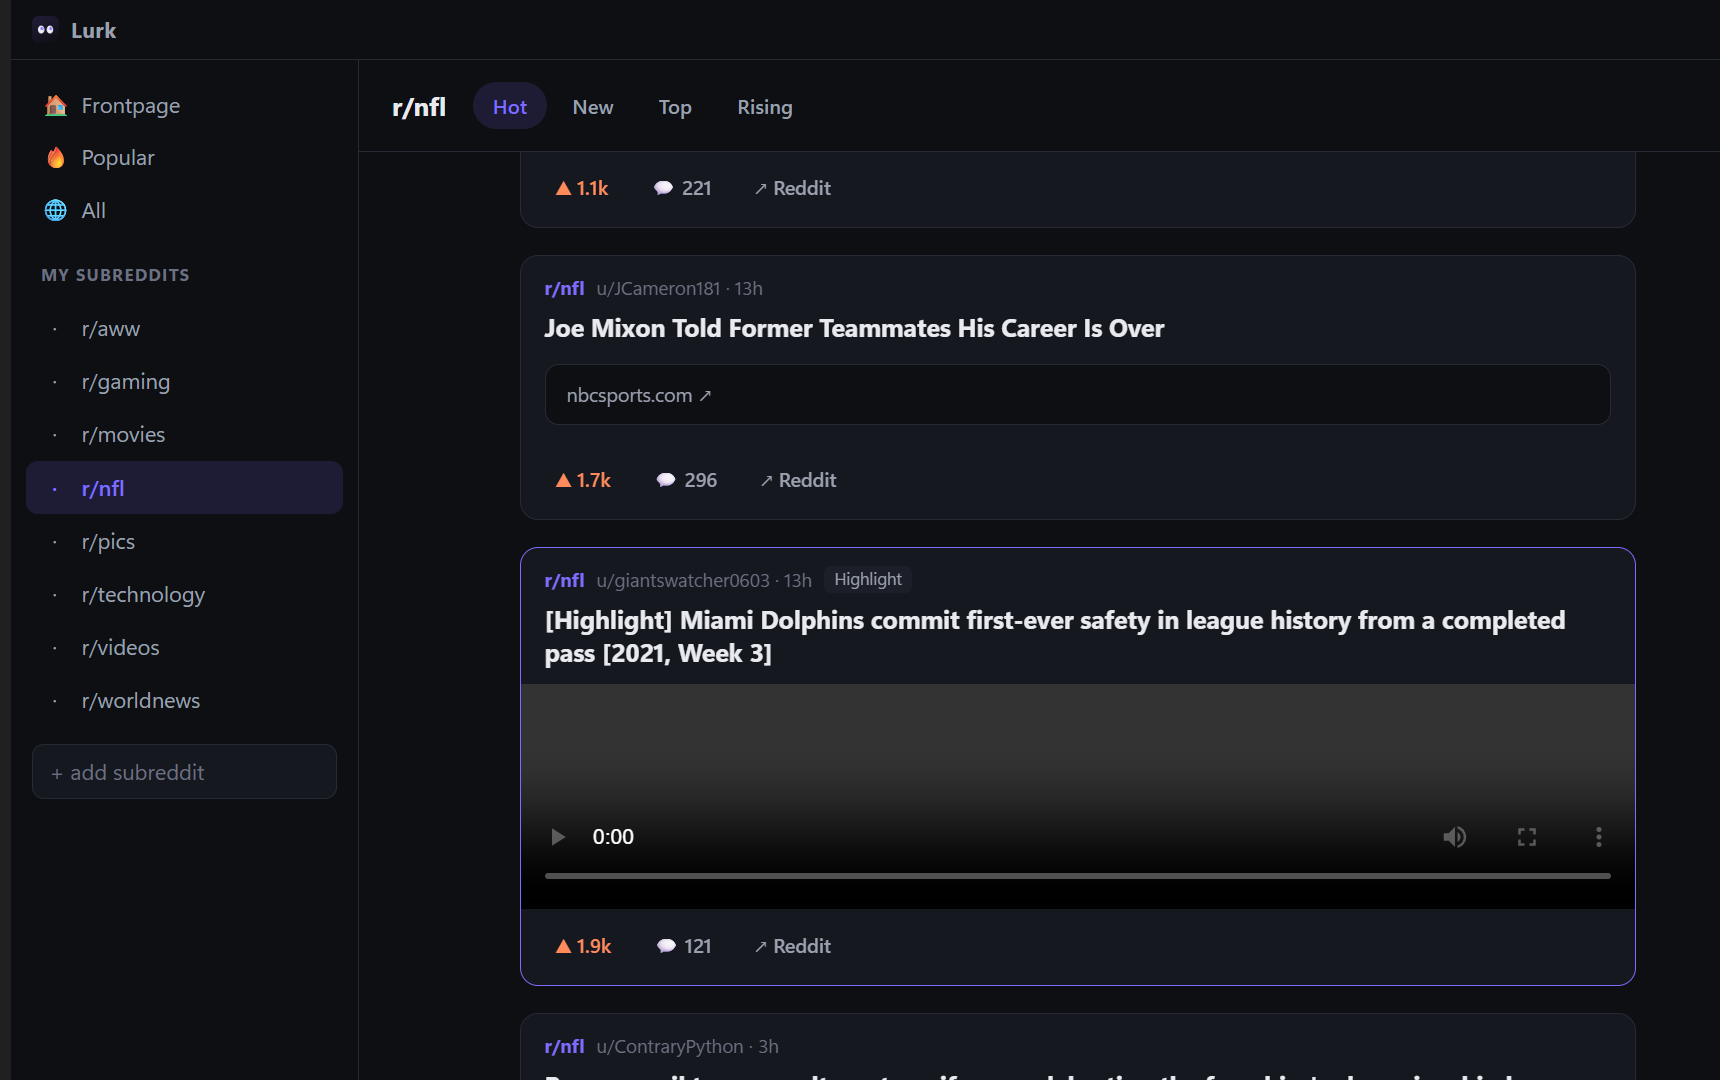
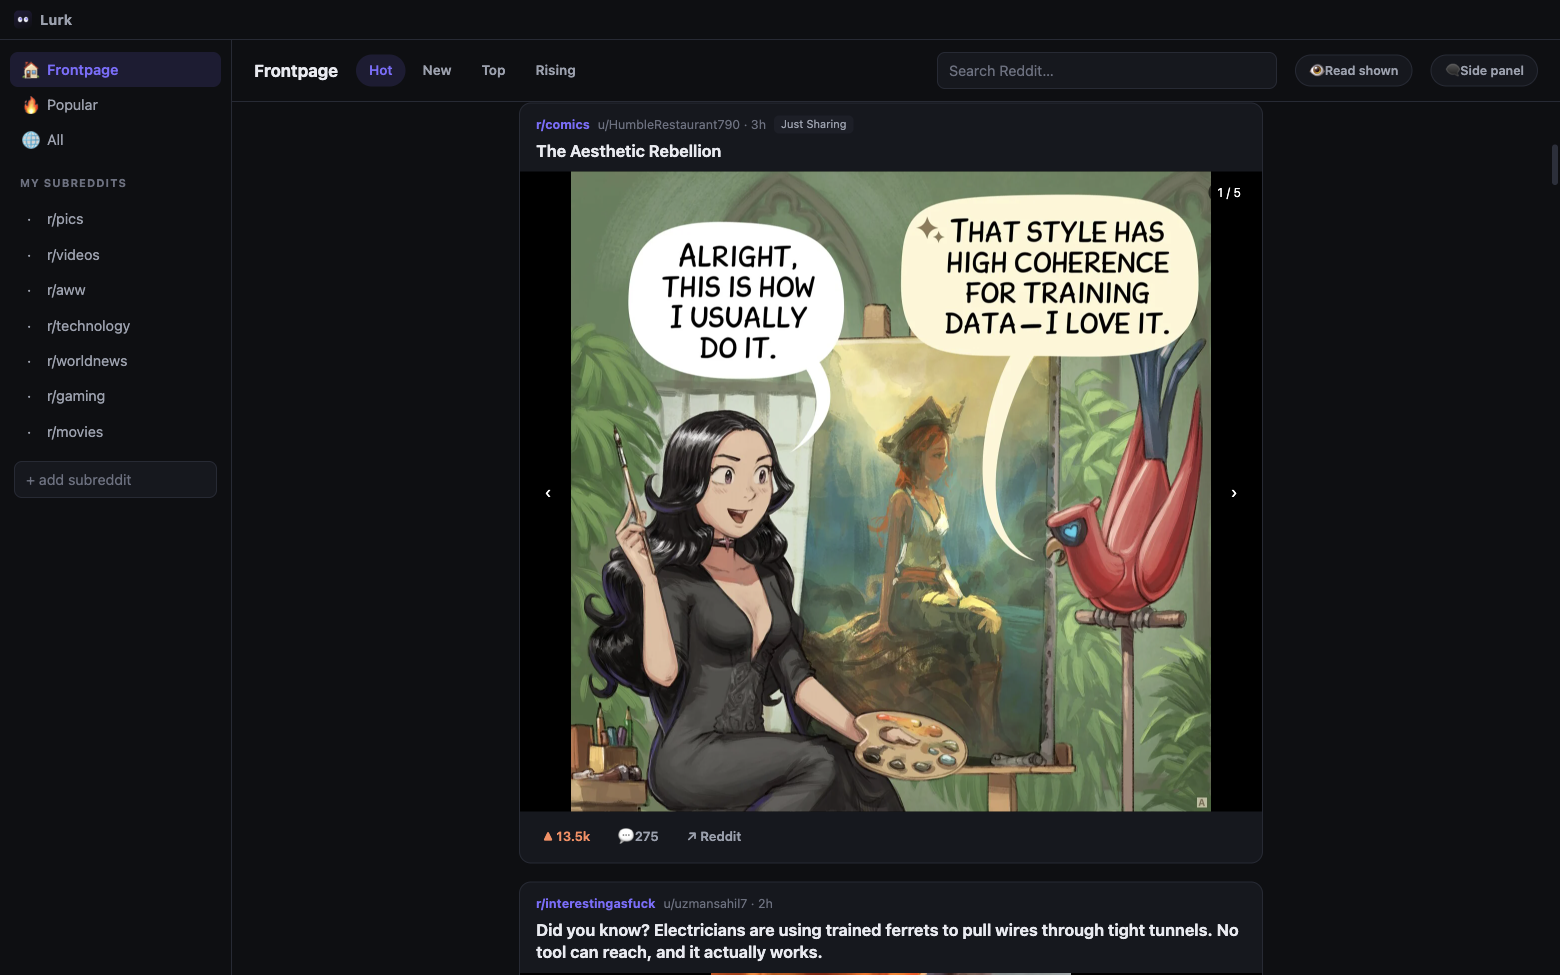
Refresh README screenshots, add Read more showcase, bump to 0.1.1

diff --git a/README.md b/README.md
@@ -28,6 +28,8 @@ opposite: a native-feeling window with no ads, no login, no tracking, no
   to resize) or a popup overlay; one click toggles the mode
 - **Threaded comments** — collapse/expand any thread, OP highlighting, inline
   image previews for image links inside comments
+- **Full text posts inline** — long selftext expands in place with
+  *Read more / Show less*, fully formatted (paragraphs, links, quotes, code)
 - **Your subreddits** — pinned list with autocomplete search, saved locally
 - **Hot / New / Top / Rising** with time ranges, plus site-wide search
 - **NSFW blurred** until you click, external links open in your real browser
@@ -38,6 +40,10 @@ opposite: a native-feeling window with no ads, no login, no tracking, no
 | Feed | Comments side panel |
 | --- | --- |
 | ![Feed](docs/feed.png) | ![Comments](docs/comments.png) |
+
+Long text posts expand right in the feed — read the whole thing without leaving your place:
+
+![Read more](docs/readmore.png)
 
 ## Download
 
